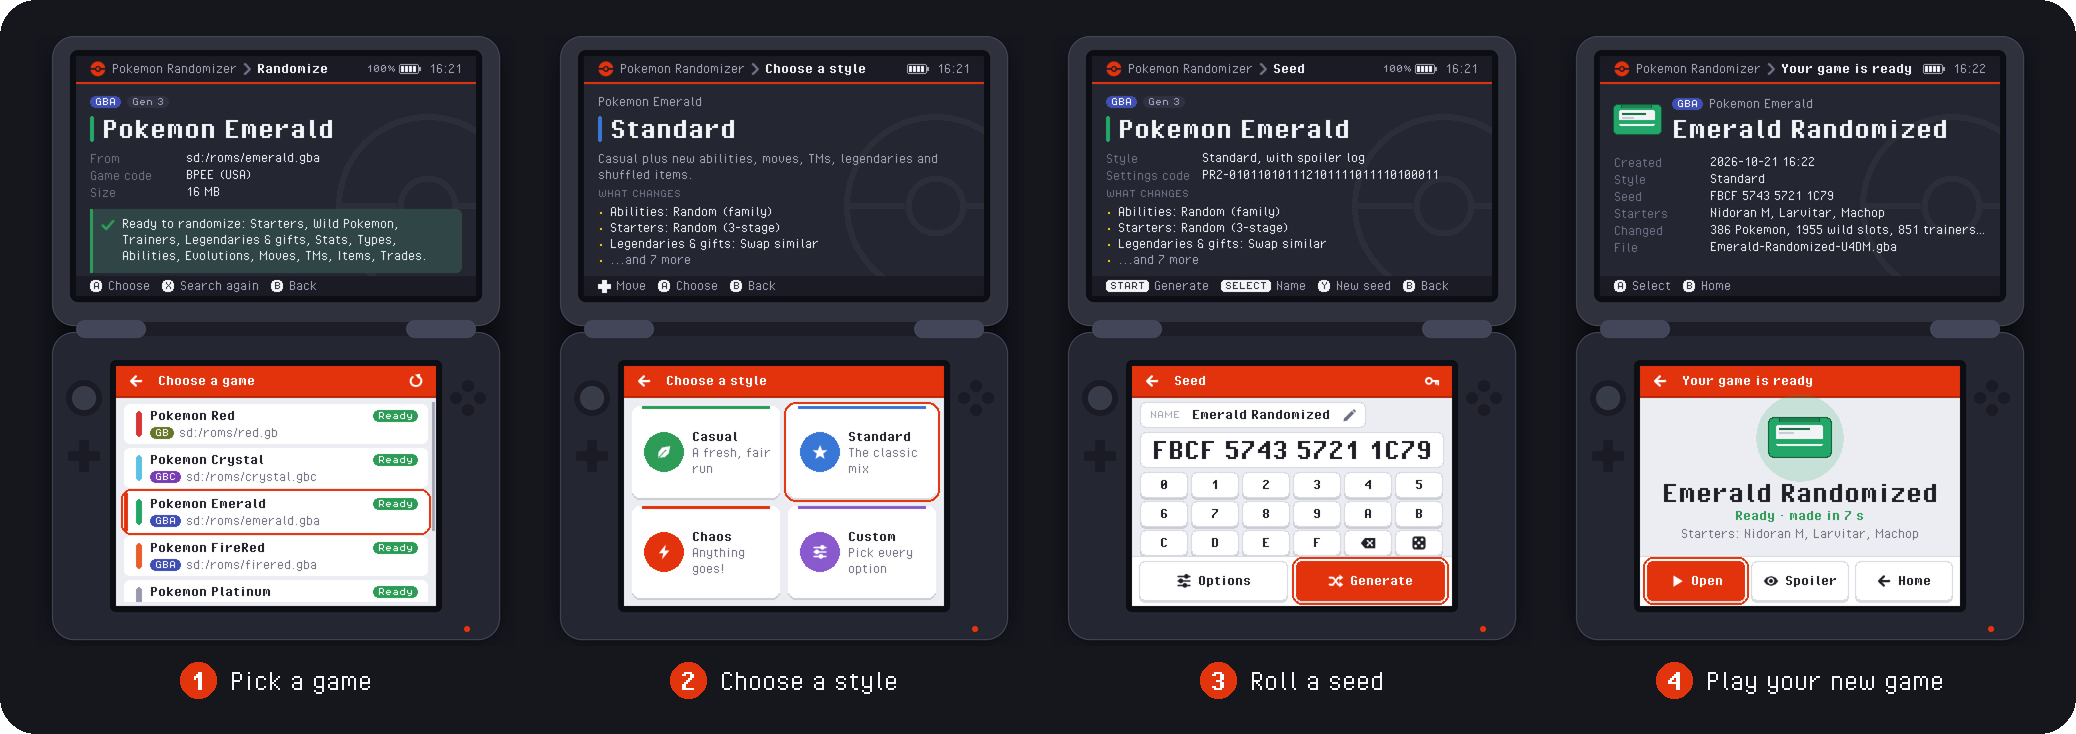
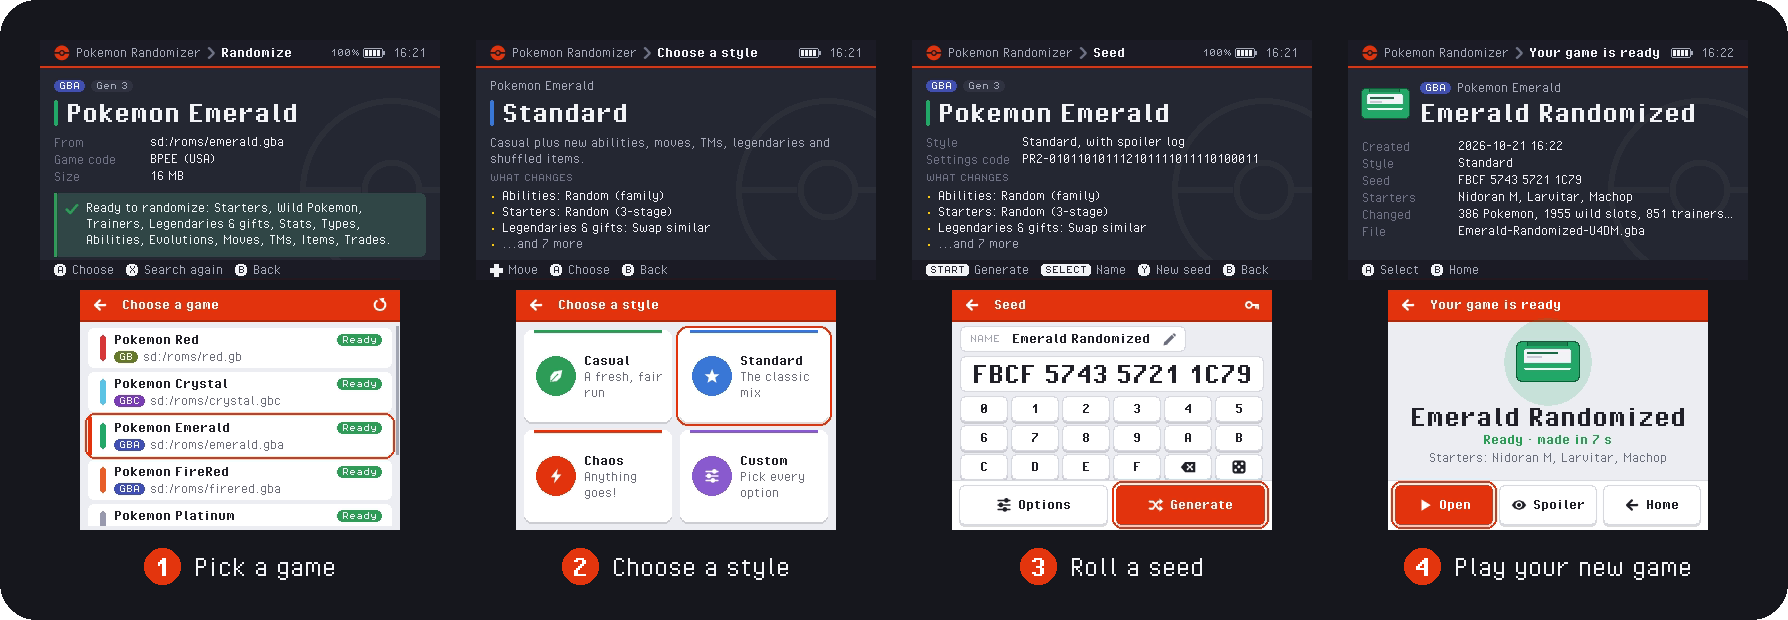
README: the demo and the steps show the two screens on their own, no drawn console

Changed region(s): [[0.0308, 0.0306, 0.9843, 0.95], [0.9843, 0.9806, 1.0, 1.0], [0.9843, 0.0, 1.0, 0.0306]]

diff --git a/README.md b/README.md
@@ -11,7 +11,7 @@
 </p>
 
 <p align="center">
-  <img src="media/demo.gif" width="420" alt="The app on a 3DS: pick Pokemon Emerald, choose the Standard style, roll a seed and press Generate. The randomized game is ready in 7 seconds, with its spoiler log.">
+  <img src="media/demo.gif" width="400" alt="The app's two screens: pick Pokemon Emerald, choose the Standard style, roll a seed and press Generate. The randomized game is ready in 7 seconds, with its spoiler log.">
 </p>
 
 Pick one of your games, choose a style, and the 3DS builds a randomized copy:
